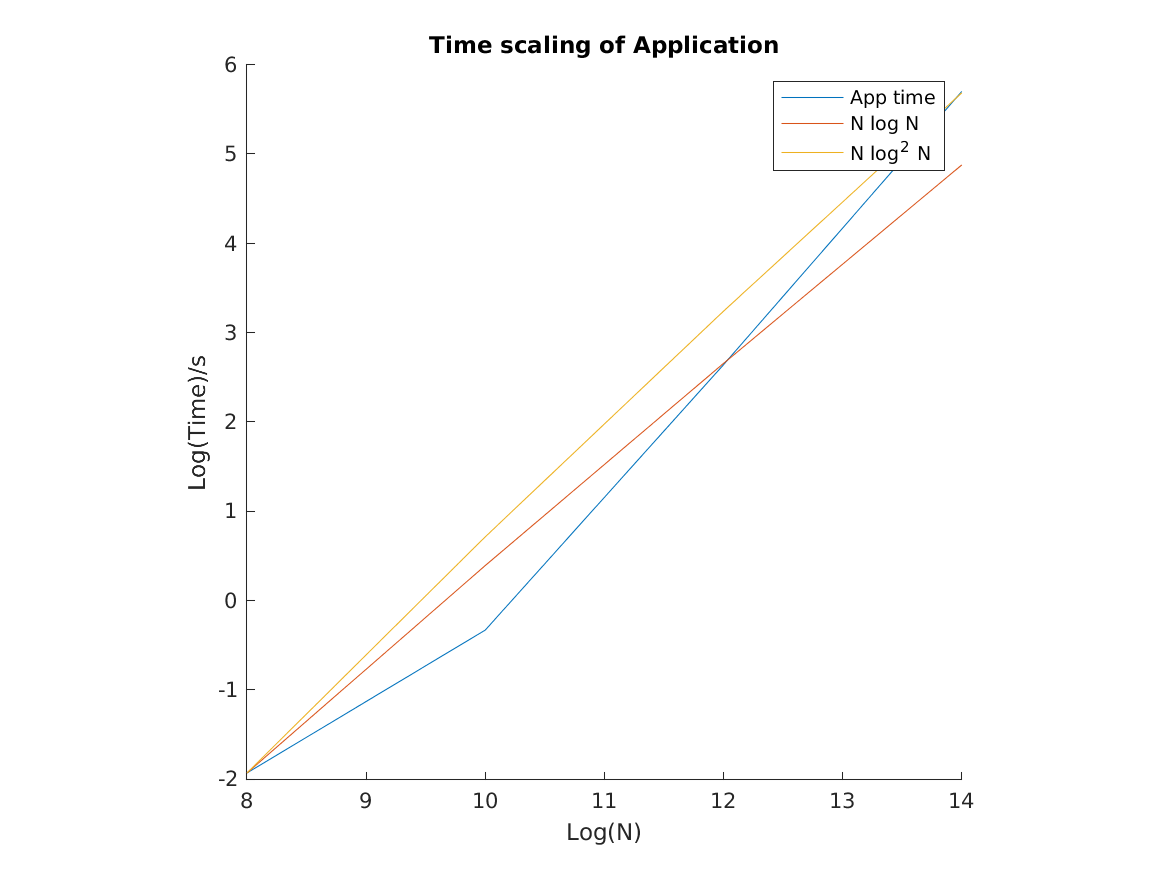
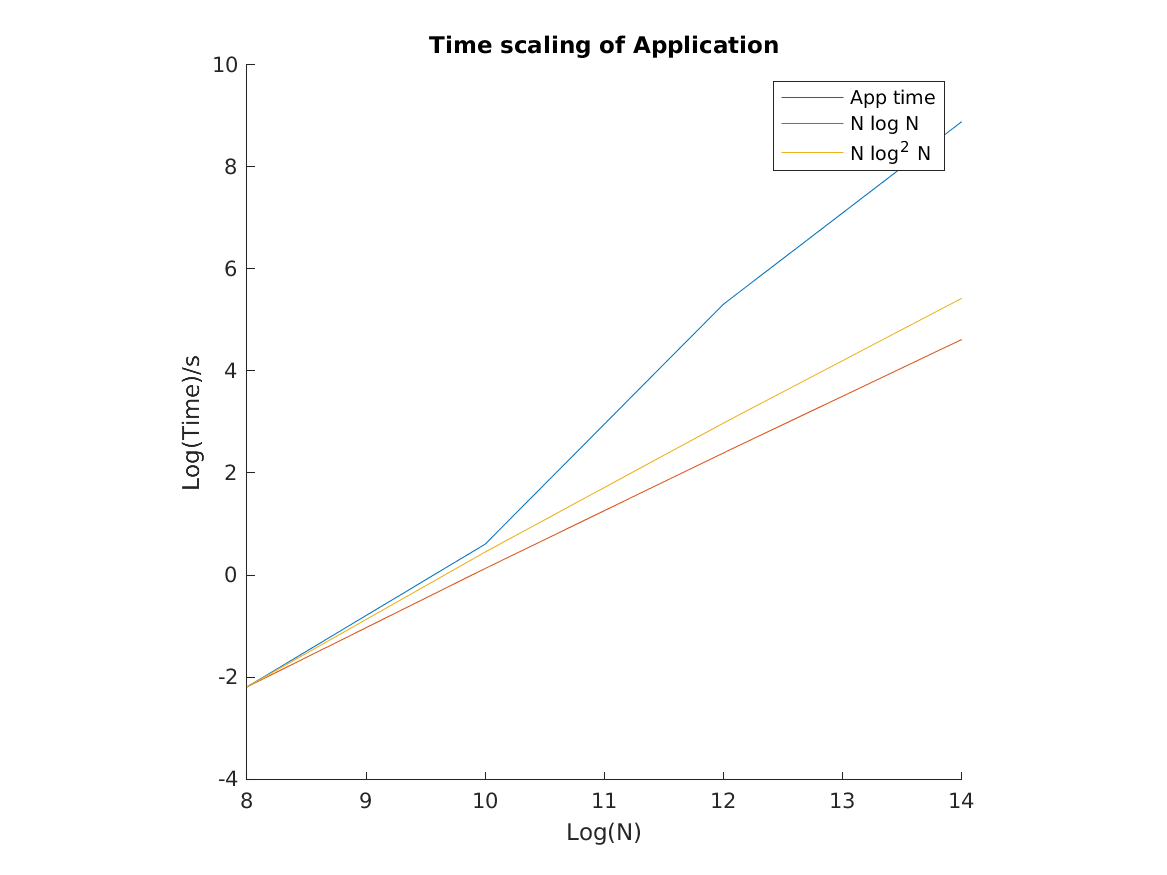
new results for reporting

diff --git a/FIOs_inverse.m b/FIOs_inverse.m
@@ -3,11 +3,14 @@ clear all;
 
 startup;
 
-tol = 1e-10
-func_name = 'fun1'
+tol = 1e-13
+func_name = 'fun5'
 occ = 64;
-rank_or_tol = 1e-10
+rank_or_tol = 1e-12
 repeat_num = 5;
+n0 = 8;
+tt = 5;
+rand_or_cheb = 'rand';
 
 dims = [4:7]
 cases = length(dims);
@@ -17,11 +20,13 @@ apperr = zeros(cases, 1);
 solerr = zeros(cases, 1);
 condAs = zeros(cases, 1);
 condATAs = zeros(cases, 1);
+bferr = zeros(cases, 1);
 for i = 1:cases
     ii = dims(i);
     N = 2^(2*ii);
     n = 2^ii;
-    NG = 2*ii;
+    NG = 3*ii;
+    rk = 15*ii;
     k = -N/2:N/2-1;
     kk = k(:);
 
@@ -46,7 +51,8 @@ for i = 1:cases
 
     tic;
     for j = 1:repeat_num
-        [Factor,Rcomp] = IBF_Cheby(fun,xx,kk,NG,tol);
+        %[Factor,Rcomp] = IBF_Cheby(fun,xx,kk,NG,tol);
+        Factor = BF_IDBF(fun, xx, kk, n0, rk, tol, rand_or_cheb, tt);
     end
     FactorT = toc/repeat_num;
 
@@ -64,6 +70,20 @@ for i = 1:cases
 
     condAs(i) = condA;
     condATAs(i) = condATA;
+    
+    A1 = fun(xx, kk);
+    %ATA1 = A1'*A1;
+
+    condA1 = condest(A1);
+    %condATA1 = condest(ATA1);
+    fprintf('condition number estimation of A1  : %10.4e \n', condA1)
+    %fprintf('condition number estimation of ATA1: %10.4e \n', condATA1)
+    
+    randx = rand(N, 1);
+    bfacc = norm(A*randx-A1*randx)/norm(A1*randx);
+    fprintf('err between matrices: %10.4e \n', bfacc)
+    %fprintf('err between ATAs    : %10.4e \n', norm(ATA*randx-ATA1*randx)/norm(ATA1*randx))
+    bferr(i) = bfacc;    
 
     Afun = @(i, j)fun_ATA(ATA, i, j);
 
@@ -72,13 +92,14 @@ for i = 1:cases
 
     F = hifie2my(Afun,x,occ,rank_or_tol);
 
-    err = snorm(N,@(x)(ATA*x - hifie_mv(F,x)),[],[],1);
-    err = err/snorm(N,@(x)(ATA*x),[],[],1);
+    err = snorm(N,@(x)(ATA*x - hifie_mv(F,x)),[],[],1,128);
+    err = err/snorm(N,@(x)(ATA*x),[],[],1, 128);
     fprintf('hifie_mv err: %10.4e \n',err)
     apperr(i) = err;
 
-    sol = rand(N,1);
-    b = BF_adj_apply(Factor, BF_apply(Factor,sol));
+    sol = 2*rand(N,1);
+    b = BF_adj_apply(Factor, A1*sol);
+    %b = ATA1*sol;
     tic;
     for j = 1:repeat_num
         app = hifie_sv(F, b);
@@ -159,5 +180,15 @@ title('Condition numbers');
 hold off;
 % legend(h, 'App time', 'N log N', 'N log^2 N');
 saveas(fig, "condata_" + func_name + ".png");
+
+fig = figure(7);
+hold on;
+h(1) = plot(logN, log10(bferr));
+xlabel('Log(N)');
+ylabel('Log10(error)'); 
+title('Error of BF');
+hold off;
+% legend(h, 'App time', 'N log N', 'N log^2 N');
+saveas(fig, "bferr_"+ func_name + ".png");
 
 exit
